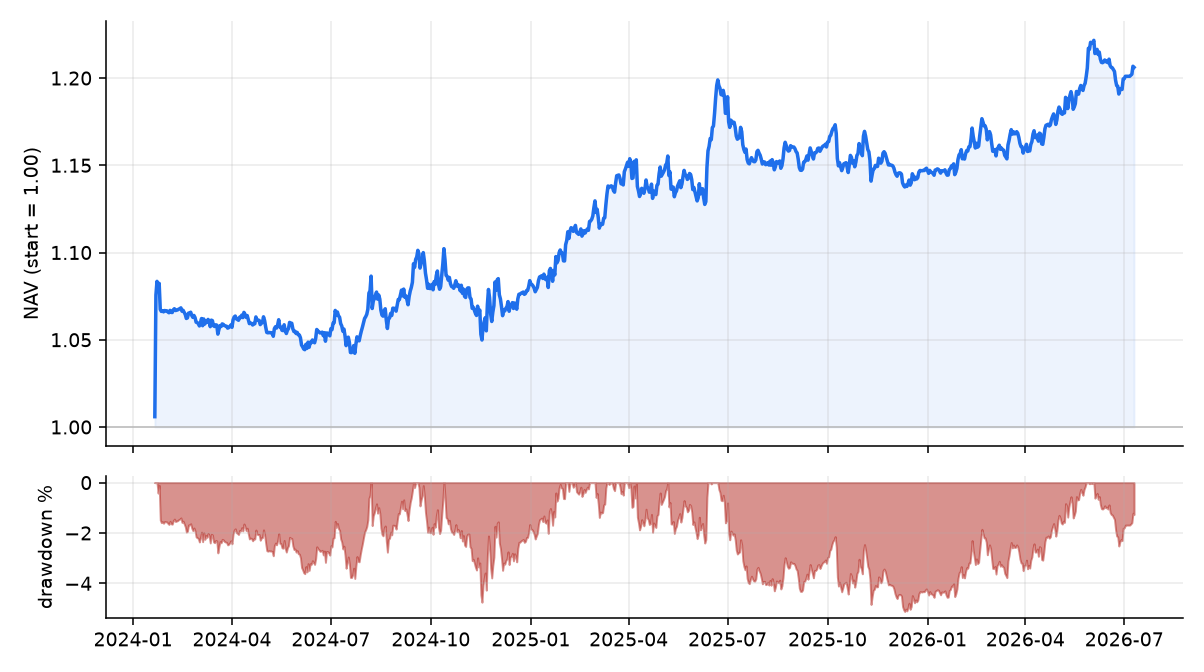
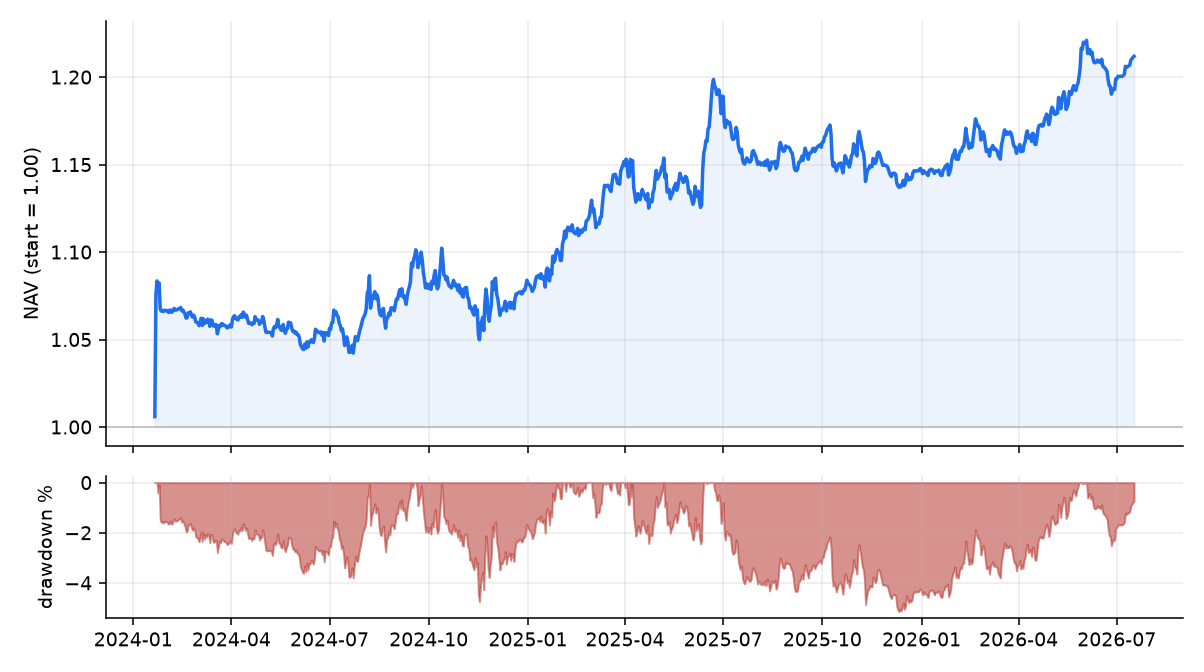
live: NAV update 2026-07-27T09:18Z

diff --git a/index.html b/index.html
@@ -3,7 +3,7 @@
 <title>Alpha Research — Live Book</title>
 <meta name="description" content="Live paper-traded NAV of the Alpha Research diversified risk-premium book: crypto carry/trend + FX carry/value, risk-parity, vol-targeted, net of costs. Updated daily.">
 <meta property="og:title" content="Alpha Research — Live Book">
-<meta property="og:description" content="Paper-traded NAV of the diversified risk-premium book, updated daily. Sharpe 0.87, NAV 1.206 since 2024-01-01.">
+<meta property="og:description" content="Paper-traded NAV of the diversified risk-premium book, updated daily. Sharpe 0.89, NAV 1.212 since 2024-01-01.">
 <meta property="og:type" content="website"><meta property="og:url" content="https://alpha.vineai.tech/">
 <meta property="og:image" content="https://alpha.vineai.tech/nav.png">
 <meta property="og:image:width" content="1204"><meta property="og:image:height" content="672">
@@ -36,18 +36,18 @@ footer{margin-top:46px;padding-top:16px;border-top:1px solid var(--rule);color:v
 <header>
   <div class="tag">Alpha Research · Live Book</div>
   <h1>The diversified risk-premium book, paper-traded live</h1>
-  <p class="sub">Inception 2024-01-01 · data through 2026-07-10 · updated 2026-07-26 09:18:04 UTC<br>
+  <p class="sub">Inception 2024-01-01 · data through 2026-07-17 · updated 2026-07-27 09:18:02 UTC<br>
   The capstone of the <a href="https://bryanvine.github.io/alpha-research/">Alpha Research</a> series
   (<a href="https://bryanvine.github.io/alpha-research/paper7.html">Paper 7</a>), tracked forward as a paper portfolio.</p>
 </header>
 
-<div class="cards"><div class="card"><div class="k">NAV</div><div class="v pos">1.206</div></div><div class="card"><div class="k">Total return</div><div class="v pos">+20.6%</div></div><div class="card"><div class="k">Annualized</div><div class="v pos">+5.4%</div></div><div class="card"><div class="k">Sharpe</div><div class="v pos">0.87</div></div><div class="card"><div class="k">Volatility</div><div class="v mut">6.2%</div></div><div class="card"><div class="k">Max drawdown</div><div class="v neg">-5.1%</div></div></div>
+<div class="cards"><div class="card"><div class="k">NAV</div><div class="v pos">1.212</div></div><div class="card"><div class="k">Total return</div><div class="v pos">+21.2%</div></div><div class="card"><div class="k">Annualized</div><div class="v pos">+5.5%</div></div><div class="card"><div class="k">Sharpe</div><div class="v pos">0.89</div></div><div class="card"><div class="k">Volatility</div><div class="v mut">6.2%</div></div><div class="card"><div class="k">Max drawdown</div><div class="v neg">-5.1%</div></div></div>
 
 <figure><img src="nav.png" alt="Live NAV equity curve and drawdown"></figure>
 
 <h2>Current target weights &amp; sleeve performance</h2>
 <table><thead><tr><th>Sleeve</th><th>Weight</th><th>Sharpe (since inception)</th></tr></thead>
-<tbody><tr><td>FX value</td><td>48.9%</td><td class="neg">-0.68</td></tr><tr><td>FX carry</td><td>38.3%</td><td class="pos">+0.62</td></tr><tr><td>Crypto funding carry</td><td>7.6%</td><td class="pos">+0.96</td></tr><tr><td>Crypto trend</td><td>5.3%</td><td class="pos">+0.18</td></tr></tbody></table>
+<tbody><tr><td>FX value</td><td>48.7%</td><td class="neg">-0.69</td></tr><tr><td>FX carry</td><td>38.9%</td><td class="pos">+0.67</td></tr><tr><td>Crypto funding carry</td><td>7.3%</td><td class="pos">+0.96</td></tr><tr><td>Crypto trend</td><td>5.1%</td><td class="pos">+0.18</td></tr></tbody></table>
 
 <div class="note"><strong>What this is.</strong> A risk-parity, 10%/yr-vol-targeted combination of the
 daily-tradable survivors from the research program — crypto funding carry, crypto trend, and G10 FX
